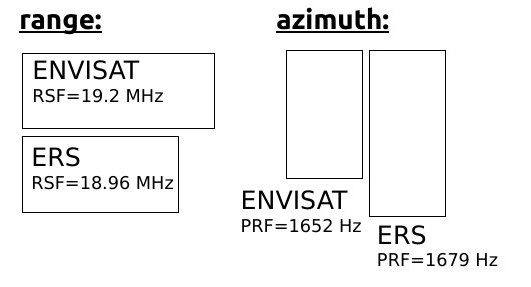
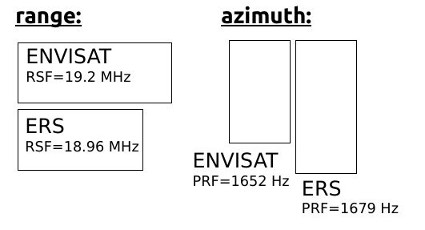
Beautify geometry ratios figure. [CrossHelp]

diff --git a/jlinda-nest/src/main/resources/doc/help/operators/CrossResamplingOp.html b/jlinda-nest/src/main/resources/doc/help/operators/CrossResamplingOp.html
@@ -66,7 +66,7 @@
 </p>
 
 <br>
-<img style="" alt="" src="../images/ers_envisat_ratios.jpg">
+<div style="margin-left: 35px;"><img style="" alt="" src="../images/ers_envisat_ratios.jpg"></div>
 <br>
 <br>
 <div style="margin-left: 20px;"><b>Figure 1.</b> Ratio between Envisat ASAR and ERS 1/2 SAR geometries.<br></div>
